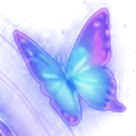
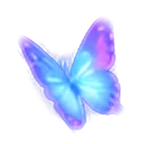
Voice: header speaker toggle, iOS audio unlock + WebAudio playback, Kokoro q8 wasm single-thread w/ progress, speechSynthesis fallback; clean butterfly alpha; no orb hue-rotate (pastel mood glow)

diff --git a/src/lib/kokoroTTS.ts b/src/lib/kokoroTTS.ts
@@ -1,63 +1,135 @@
 /**
- * Kokoro TTS — fully in-browser (kokoro-js, Kokoro-82M ONNX). No key needed.
- * Model is lazy-loaded on first spoken reply and cached (browser cache + in-memory).
- * Audio plays through an <audio> element attached to audioBus so WilsonOrb reacts.
+ * Wilson's voice.
+ * Primary: Kokoro (kokoro-js, Kokoro-82M ONNX q8, WASM, single thread when not cross-origin isolated).
+ * Fallback: Web Speech API (speechSynthesis), best en-US male voice, if Kokoro fails or takes > 20s.
+ * Playback goes through ONE AudioContext unlocked on the first user gesture (required on iOS).
  */
-import { attachAudio, detachAudio, unlockAudioContext } from "./audioBus";
+import { attachNode, getAudioContext, setSpeakingFlag } from "./audioBus";
 
 const MODEL_ID = "onnx-community/Kokoro-82M-v1.0-ONNX";
 const VOICE = "am_echo";
 const SPEED = 1.1;
+const LOAD_TIMEOUT_MS = 20000;
 
 let ttsPromise: Promise<any> | null = null;
-let currentAudio: HTMLAudioElement | null = null;
-let currentUrl: string | null = null;
+let kokoroFailed = false;
+let currentSource: AudioBufferSourceNode | null = null;
+let detachCurrent: (() => void) | null = null;
 let generation = 0;
+let unlocked = false;
 
-export type SpeakResult = "success" | "blocked" | "error" | "skipped";
+export type SpeakResult = "success" | "blocked" | "error" | "skipped" | "fallback";
+export type VoiceStatus = { state: "idle" | "loading" | "ready" | "fallback"; progress: number; reason?: string };
+let status: VoiceStatus = { state: "idle", progress: 0 };
+const statusListeners = new Set<(s: VoiceStatus) => void>();
+function setStatus(s: Partial<VoiceStatus>) { status = { ...status, ...s }; statusListeners.forEach((l) => l(status)); }
+export function getVoiceStatus() { return status; }
+export function subscribeVoiceStatus(l: (s: VoiceStatus) => void) { statusListeners.add(l); return () => { statusListeners.delete(l); }; }
 
 function loadTTS(): Promise<any> {
   if (!ttsPromise) {
+    setStatus({ state: "loading", progress: 0 });
     ttsPromise = (async () => {
+      const t = await import("@huggingface/transformers");
+      const w = (t.env.backends.onnx as any).wasm;
+      if (w && !(globalThis as any).crossOriginIsolated) w.numThreads = 1;
       const { KokoroTTS } = await import("kokoro-js");
-      const hasWebGPU = typeof navigator !== "undefined" && "gpu" in navigator;
-      try {
-        if (hasWebGPU) return await KokoroTTS.from_pretrained(MODEL_ID, { dtype: "fp32", device: "webgpu" });
-      } catch { /* fall back to wasm */ }
-      return await KokoroTTS.from_pretrained(MODEL_ID, { dtype: "q8", device: "wasm" });
-    })().catch((e) => { ttsPromise = null; throw e; });
+      const files: Record<string, { loaded: number; total: number }> = {};
+      const tts = await KokoroTTS.from_pretrained(MODEL_ID, {
+        dtype: "q8",
+        device: "wasm",
+        progress_callback: (p: any) => {
+          if (p?.file && p.total) {
+            files[p.file] = { loaded: p.loaded ?? 0, total: p.total };
+            const tot = Object.values(files).reduce((a, f) => a + f.total, 0);
+            const ld = Object.values(files).reduce((a, f) => a + f.loaded, 0);
+            setStatus({ progress: tot ? Math.min(99, Math.round((ld / tot) * 100)) : 0 });
+          }
+        },
+      } as any);
+      setStatus({ state: "ready", progress: 100 });
+      return tts;
+    })().catch((e) => {
+      console.warn("[voice] Kokoro failed to load, using device voice:", e);
+      kokoroFailed = true;
+      setStatus({ state: "fallback", reason: String(e?.message ?? e) });
+      ttsPromise = null;
+      throw e;
+    });
   }
   return ttsPromise;
 }
 
+/** Call synchronously inside a user gesture (tap send / mic / orb). Unlocks iOS audio + speech. */
+export function primePlayback(): void {
+  const ctx = getAudioContext();
+  if (ctx) {
+    if (ctx.state !== "running") void ctx.resume().catch(() => {});
+    if (!unlocked) {
+      try {
+        const buf = ctx.createBuffer(1, 1, 22050);
+        const src = ctx.createBufferSource();
+        src.buffer = buf; src.connect(ctx.destination); src.start(0);
+      } catch { /* ignore */ }
+    }
+  }
+  if (!unlocked && typeof speechSynthesis !== "undefined") {
+    try { const u = new SpeechSynthesisUtterance(" "); u.volume = 0; speechSynthesis.speak(u); } catch { /* ignore */ }
+  }
+  unlocked = true;
+  if (!ttsPromise && !kokoroFailed) void loadTTS().catch(() => {}); // start downloading early
+}
+
 export function stopSpeaking(): void {
   generation++;
-  if (currentAudio) {
-    currentAudio.pause();
-    detachAudio(currentAudio);
-    currentAudio = null;
-  }
-  if (currentUrl) {
-    URL.revokeObjectURL(currentUrl);
-    currentUrl = null;
-  }
+  try { currentSource?.stop(); } catch { /* ignore */ }
+  currentSource = null;
+  detachCurrent?.(); detachCurrent = null;
+  if (typeof speechSynthesis !== "undefined") { try { speechSynthesis.cancel(); } catch { /* ignore */ } }
+  setSpeakingFlag(false);
 }
 
-/** Call from a user gesture (send/mic click) so iOS/Safari allow playback later. */
-export function primePlayback(): void {
-  void unlockAudioContext();
-}
-
-function toSpeakable(text: string): string {
+/** Strip markdown, emoji, tags so only clean words are spoken. */
+export function toSpeakable(text: string): string {
   return text
     .replace(/```[\s\S]*?```/g, " ")
     .replace(/`([^`]+)`/g, "$1")
     .replace(/!\[[^\]]*\]\([^)]*\)/g, "")
     .replace(/\[([^\]]+)\]\([^)]*\)/g, "$1")
-    .replace(/[*_#>~|]/g, "")
+    .replace(/https?:\/\/\S+/g, "")
+    .replace(/[\p{Extended_Pictographic}\u{FE0F}\u{200D}]/gu, "")
+    .replace(/[*_#>~|<>{}\[\]]/g, "")
     .replace(/\s+/g, " ")
     .trim()
     .slice(0, 1500);
+}
+
+function pickVoice(): SpeechSynthesisVoice | null {
+  const vs = speechSynthesis.getVoices().filter((v) => /^en(-|_)?US/i.test(v.lang) || v.lang === "en-US");
+  const pool = vs.length ? vs : speechSynthesis.getVoices().filter((v) => v.lang.startsWith("en"));
+  const male = /(aaron|evan|nathan|tom|alex|fred|daniel|arthur|reed|rocko|ralph|guy|david|mark|christopher|eric|male)/i;
+  const score = (v: SpeechSynthesisVoice) =>
+    (/premium/i.test(v.name) || /premium/i.test(v.voiceURI) ? 40 : 0) +
+    (/enhanced/i.test(v.name) || /enhanced/i.test(v.voiceURI) ? 30 : 0) +
+    (male.test(v.name) ? 20 : 0) + (v.localService ? 5 : 0) + (/google us english/i.test(v.name) ? 8 : 0);
+  return pool.sort((a, b) => score(b) - score(a))[0] ?? null;
+}
+
+function speakFallback(text: string, speed: number, my: number): Promise<SpeakResult> {
+  return new Promise((resolve) => {
+    if (typeof speechSynthesis === "undefined") return resolve("error");
+    const u = new SpeechSynthesisUtterance(text);
+    const v = pickVoice();
+    if (v) u.voice = v;
+    u.lang = v?.lang ?? "en-US";
+    u.rate = Math.max(0.8, Math.min(1.3, speed * 0.95));
+    u.pitch = 0.95;
+    u.onstart = () => { if (my === generation) setSpeakingFlag(true); };
+    u.onend = () => { setSpeakingFlag(false); resolve("fallback"); };
+    u.onerror = (e) => { console.warn("[voice] speechSynthesis error", e.error); setSpeakingFlag(false); resolve("error"); };
+    speechSynthesis.cancel();
+    speechSynthesis.speak(u);
+  });
 }
 
 export async function speak(text: string, speed: number = SPEED): Promise<SpeakResult> {
@@ -65,26 +137,41 @@ export async function speak(text: string, speed: number = SPEED): Promise<SpeakR
   const my = generation;
   const speakable = toSpeakable(text);
   if (!speakable) return "skipped";
-  try {
-    const tts = await loadTTS();
-    if (my !== generation) return "skipped";
-    const audioOut = await tts.generate(speakable, { voice: VOICE, speed });
-    if (my !== generation) return "skipped";
-    const blob: Blob = audioOut.toBlob();
-    currentUrl = URL.createObjectURL(blob);
-    const audio = new Audio(currentUrl);
-    currentAudio = audio;
-    audio.addEventListener("ended", () => { if (currentAudio === audio) stopSpeaking(); });
-    attachAudio(audio);
+
+  let tts: any = null;
+  if (!kokoroFailed) {
     try {
-      await audio.play();
-      return "success";
+      tts = await Promise.race([
+        loadTTS(),
+        new Promise((_, rej) => setTimeout(() => rej(new Error("Kokoro load timeout (20s)")), LOAD_TIMEOUT_MS)),
+      ]);
     } catch (e) {
-      detachAudio(audio);
-      return (e as Error).name === "NotAllowedError" ? "blocked" : "error";
+      console.warn("[voice] using device voice this time:", (e as Error).message);
+      if (status.state !== "ready" && status.state !== "loading") setStatus({ state: "fallback", reason: (e as Error).message });
     }
+  }
+  if (my !== generation) return "skipped";
+  if (!tts) return speakFallback(speakable, speed, my);
+
+  try {
+    const out = await tts.generate(speakable, { voice: VOICE, speed });
+    if (my !== generation) return "skipped";
+    const ctx = getAudioContext();
+    if (!ctx) return speakFallback(speakable, speed, my);
+    if (ctx.state !== "running") { try { await ctx.resume(); } catch { /* ignore */ } }
+    const samples: Float32Array = out.audio;
+    const buf = ctx.createBuffer(1, samples.length, out.sampling_rate);
+    buf.copyToChannel(samples as Float32Array<ArrayBuffer>, 0);
+    const src = ctx.createBufferSource();
+    src.buffer = buf;
+    currentSource = src;
+    detachCurrent = attachNode(src);
+    src.onended = () => { if (currentSource === src) { detachCurrent?.(); detachCurrent = null; currentSource = null; } };
+    src.start();
+    if (ctx.state !== "running") { console.warn("[voice] AudioContext not running:", ctx.state); return speakFallback(speakable, speed, my); }
+    return "success";
   } catch (e) {
-    console.error("[Kokoro]", e);
-    return "error";
+    console.warn("[voice] Kokoro generate/playback failed, device voice:", e);
+    return speakFallback(speakable, speed, my);
   }
 }

diff --git a/src/App.tsx b/src/App.tsx
@@ -17,7 +17,7 @@ import {
   buildMemoryContext, parseAndStripTags, stripTagsForDisplay, makeTitle, newId,
   type StoredThread, type StoredMessage, type WilsonVibe, type WilsonSettings,
 } from "./memory/LocalMemory";
-import { speak, stopSpeaking, primePlayback } from "./lib/kokoroTTS";
+import { speak, stopSpeaking, primePlayback, subscribeVoiceStatus, getVoiceStatus, type VoiceStatus } from "./lib/kokoroTTS";
 import { emitRipple } from "./lib/listeningBus";
 import { useSpeechToText } from "./hooks/useSpeechToText";
 import { startCapture, stopCapture, embedSpeaker } from "./lib/voiceCapture";
@@ -91,6 +91,8 @@ export default function App() {
   useEffect(() => { voiceCtxRef.current.name = speakerProfile?.name ?? ""; }, [speakerProfile?.name]);
   const [showSettings, setShowSettings] = useState(false);
   const [fieldOpen, setFieldOpen] = useState(false);
+  const [voiceStatus, setVoiceStatus] = useState<VoiceStatus>(() => getVoiceStatus());
+  useEffect(() => subscribeVoiceStatus(setVoiceStatus), []);
   const [showInstallHint, setShowInstallHint] = useState(() => {
     try {
       const ua = navigator.userAgent;
@@ -523,6 +525,15 @@ export default function App() {
             <h1 className="wl-title text-[19px] tracking-[0.28em] text-violet-900/80">WILSON</h1>
           </div>
           <div className="flex items-center justify-end gap-1 -mr-1.5">
+            <button
+              type="button"
+              onClick={() => { primePlayback(); if (settings.voiceEnabled) stopSpeaking(); setSettings((s) => ({ ...s, voiceEnabled: !s.voiceEnabled })); }}
+              className="p-1 rounded-full text-violet-500/80 hover:bg-violet-50/80 touch-manipulation"
+              aria-label={settings.voiceEnabled ? "Mute Wilson's voice" : "Turn on Wilson's voice"}
+              title={settings.voiceEnabled ? "Voice on" : "Voice off"}
+            >
+              {settings.voiceEnabled ? <Volume2 className="w-[15px] h-[15px]" /> : <VolumeX className="w-[15px] h-[15px]" />}
+            </button>
             <span className="flex items-center gap-1 px-2 py-0.5 rounded-full glass text-[9px] whitespace-nowrap text-violet-700/70">
               <span className="w-1.5 h-1.5 rounded-full bg-emerald-400" />Always with you
             </span>
@@ -645,7 +656,7 @@ export default function App() {
                 className="relative mb-20"
               >
                 <div className="relative">
-                  <WilsonOrb size="lg" vibe={vibe} isThinking={thinking} interactive onLongPress={() => { if (!stt.listening && stt.supported) { primePlayback(); stopSpeaking(); if (settings.voiceRecognition || settings.emotionDetection) void startCapture().catch(() => {}); stt.toggle(); } }} />
+                  <WilsonOrb size="lg" vibe={vibe} isThinking={thinking} interactive onTap={primePlayback} onLongPress={() => { if (!stt.listening && stt.supported) { primePlayback(); stopSpeaking(); if (settings.voiceRecognition || settings.emotionDetection) void startCapture().catch(() => {}); stt.toggle(); } }} />
                 </div>
               </motion.div>
 
@@ -796,6 +807,9 @@ export default function App() {
             )}
             {settings.showHeard && settings.emotionDetection && heard && (
               <p className="mb-1 px-2 text-[11px] text-violet-500/60">Heard: {heard.tag} ({Math.round(heard.confidence * 100)}%)</p>
+            )}
+            {settings.voiceEnabled && voiceStatus.state === "loading" && (
+              <p className="mb-1.5 px-2 text-[12px] text-violet-600/70">Wilson's voice is loading… {voiceStatus.progress}%</p>
             )}
             {showInstallHint && (
               <div className="mb-2 mx-1 flex items-center gap-2 rounded-2xl glass px-3 py-2 text-[13px] text-violet-800/80">

diff --git a/src/components/WilsonOrb.tsx b/src/components/WilsonOrb.tsx
@@ -12,6 +12,7 @@ interface WilsonOrbProps {
   vibe?: WilsonVibe;
   interactive?: boolean;
   onLongPress?: () => void;
+  onTap?: () => void;
 }
 
 const sizeMap = {
@@ -29,8 +30,17 @@ const vibeHue: Record<WilsonVibe, number> = {
   dreaming: 160,
 };
 
+// Pastel mood glow only (no hue-rotation of the orb image, never green)
+const moodColor: Record<WilsonVibe, string> = {
+  neutral: "rgba(196, 160, 255, 0.55)",
+  excited: "rgba(255, 150, 210, 0.6)",
+  calm: "rgba(150, 215, 255, 0.55)",
+  tired: "rgba(200, 180, 240, 0.45)",
+  dreaming: "rgba(255, 215, 150, 0.55)",
+};
+
 const WilsonOrb = React.forwardRef<HTMLDivElement, WilsonOrbProps>(
-  ({ isThinking = false, speaking, size = "md", vibe = "neutral", interactive = false, onLongPress }, ref) => {
+  ({ isThinking = false, speaking, size = "md", vibe = "neutral", interactive = false, onLongPress, onTap }, ref) => {
     const { speaking: audioSpeaking, amplitude } = useWilsonAudio();
     const [listening, setListening] = useState<boolean>(getListening());
     const [rippleKey, setRippleKey] = useState(0);
@@ -131,6 +141,7 @@ const WilsonOrb = React.forwardRef<HTMLDivElement, WilsonOrbProps>(
             if (pressTimer.current) window.clearTimeout(pressTimer.current);
             pressTimer.current = null;
             if (!longPressed.current) {
+              onTap?.();
               enableTilt();
               emitRipple();
               setPulse((k) => k + 1);
@@ -158,6 +169,7 @@ const WilsonOrb = React.forwardRef<HTMLDivElement, WilsonOrbProps>(
         style={
           {
             "--wilson-vibe-hue": `${vibeHue[vibe]}`,
+            "--wl-mood": moodColor[vibe],
             "--wilson-parallax-x": `${parallax.x}px`,
             "--wilson-parallax-y": `${parallax.y}px`,
           } as React.CSSProperties

diff --git a/src/lib/audioBus.ts b/src/lib/audioBus.ts
@@ -159,3 +159,38 @@ export async function unlockAudioContext(): Promise<void> {
     }
   }
 }
+
+/* ---- Web Audio node playback (iOS-safe: one context, unlocked on first gesture) ---- */
+export function getAudioContext(): AudioContext | null {
+  return ensureContext();
+}
+
+/** Route a source node through the analyser so the orb reacts; returns a detach fn. */
+export function attachNode(node: AudioNode): () => void {
+  const ctx = ensureContext();
+  if (!ctx) return () => {};
+  if (!analyser) {
+    analyser = ctx.createAnalyser();
+    analyser.fftSize = 512;
+    analyser.smoothingTimeConstant = 0.6;
+    dataArray = new Uint8Array(analyser.fftSize);
+    analyser.connect(ctx.destination);
+  } else {
+    try { analyser.connect(ctx.destination); } catch { /* already */ }
+  }
+  node.connect(analyser);
+  speaking = true;
+  emit();
+  startLoop();
+  return () => {
+    try { node.disconnect(); } catch { /* ignore */ }
+    speaking = false;
+    stopLoop();
+  };
+}
+
+/** Fake speaking state (for speechSynthesis fallback, which has no audio graph). */
+export function setSpeakingFlag(v: boolean): void {
+  speaking = v;
+  if (!v) stopLoop(); else emit();
+}

diff --git a/src/index.css b/src/index.css
@@ -457,3 +457,10 @@ html:not(.dark) .wl-bgimg::after { content: ""; position: absolute; inset: 0; ba
 .wilson-orb-float { z-index: 1; }
 .wl-orb-platform { bottom: -38% !important; height: 38% !important; width: 150% !important; }
 .wl-orb-bflies { inset: -22% -42% -10% -42% !important; }
+
+/* Fix: never hue-rotate the orb image. Mood = pastel glow; thinking = shimmer + slow breathing */
+.wl-orb-img { filter: drop-shadow(0 0 calc(10px + var(--wilson-amp-glow) * 22px) var(--wl-mood, rgba(196,160,255,.55))) !important; }
+.wl-orb-ring { box-shadow: 0 0 14px var(--wl-mood, rgba(200,170,255,.35)) !important; }
+.wilson-orb-shell--thinking .wl-orb-img { animation: wl-orb-think 2.8s ease-in-out infinite !important; }
+@keyframes wl-orb-think { 0%,100% { transform: scale(1) rotate(-1deg); opacity: .96; } 50% { transform: scale(1.035) rotate(1.5deg); opacity: 1; } }
+.wilson-orb-shimmer { background: linear-gradient(100deg, transparent 20%, rgba(255,255,255,.35) 50%, transparent 80%) !important; border-radius: 9999px; mix-blend-mode: soft-light; }
